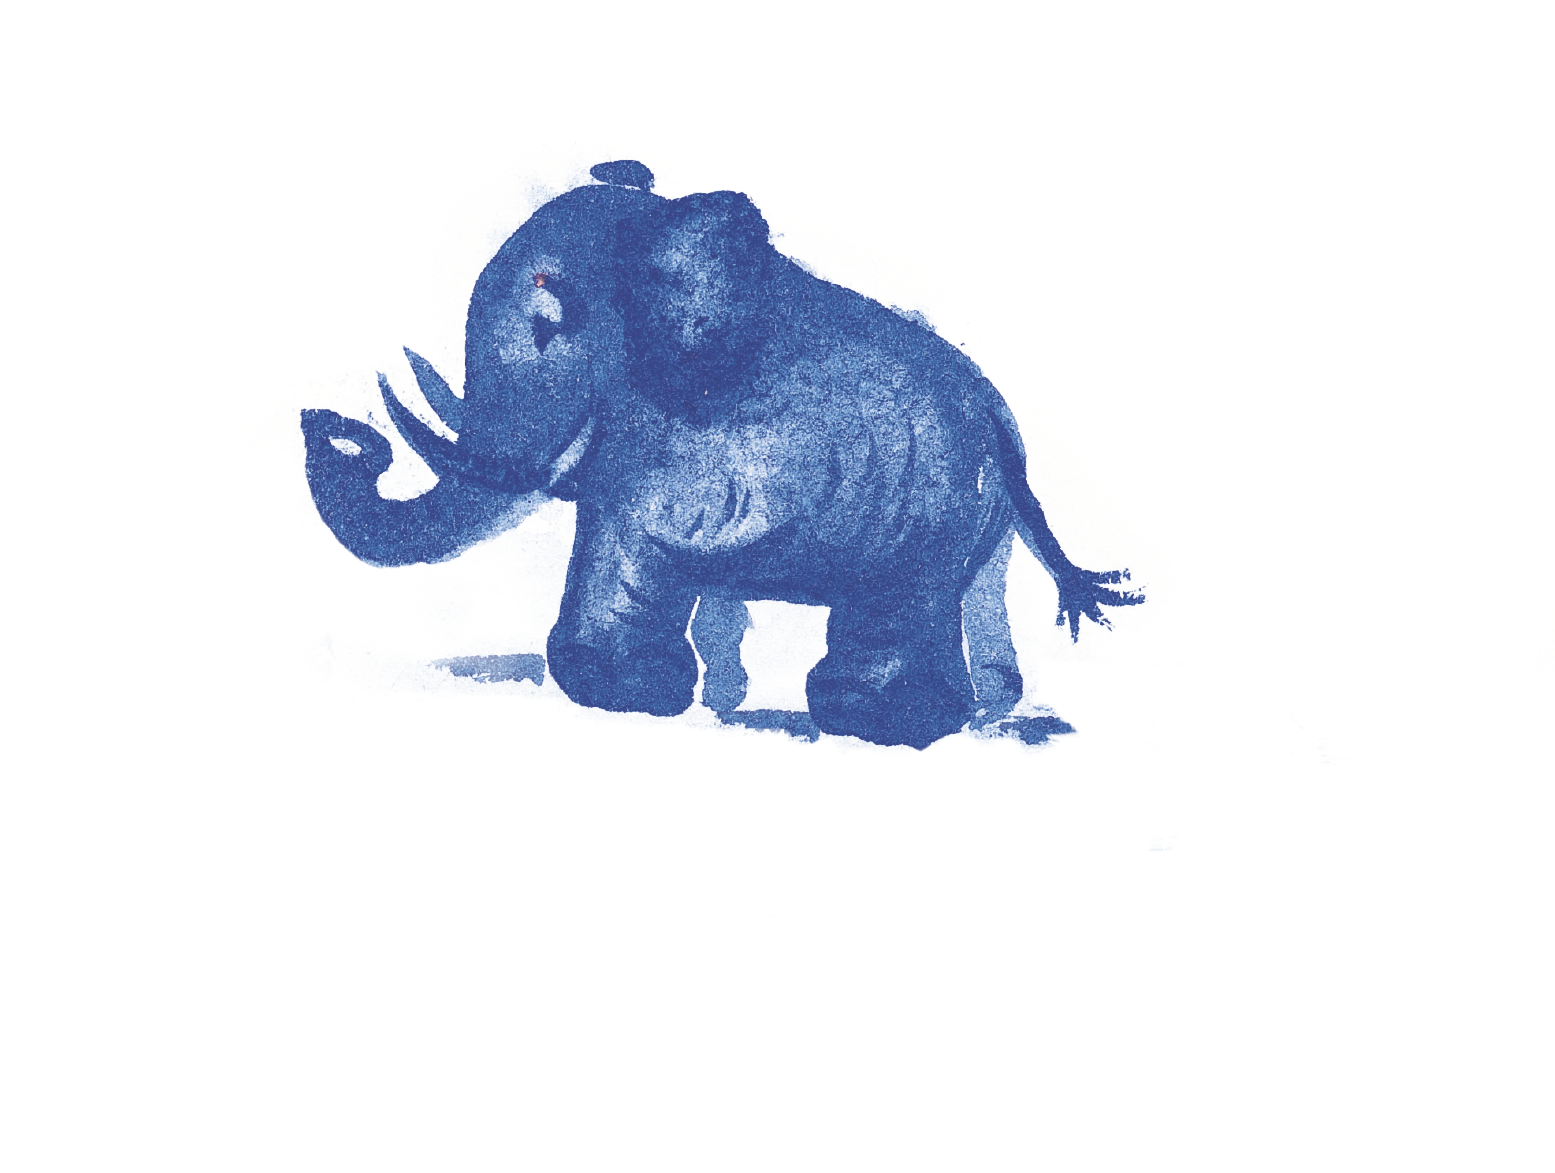
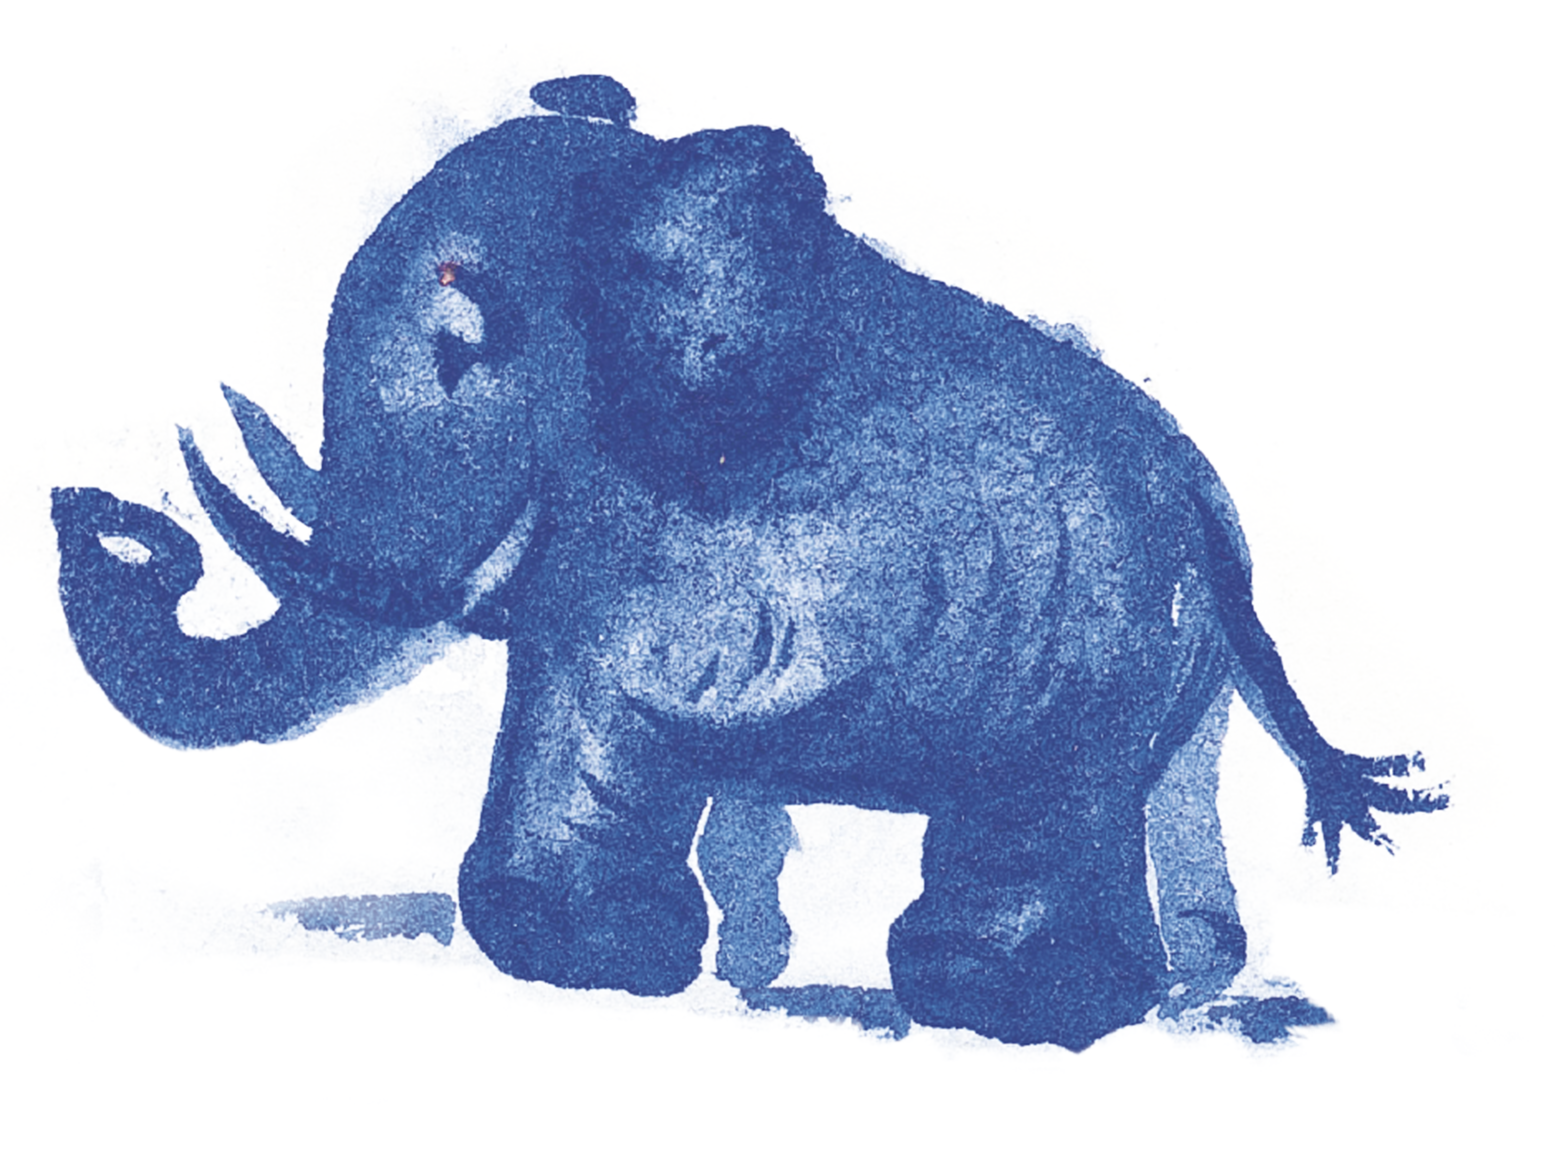
update styles/content for intro and buy

diff --git a/V2_simple/index.html b/V2_simple/index.html
@@ -7,6 +7,7 @@
     <meta http-equiv="X-UA-Compatible" content="ie=edge">
     <title>Blubo - Der kleine blaue Elefant</title>
     <link rel="stylesheet" href="./style.css">
+    <link href="https://fonts.googleapis.com/css?family=Montserrat" rel="stylesheet">
 </head>
 
 <body class="body">
@@ -16,8 +17,15 @@
         <a class="navigation__item js__navigation__item" href="#buy">Bestellen</a>
     </nav>
     <section id="intro" class="section section--intro">
-        <img class="intro__title" src="./static/title.png" alt="blubo der kleine blaue Elefant" />
+        <h1 class="intro__title">
+            <img class="intro__title__image" src="./static/title.png" alt="Blubo der kleine blaue Elefant" />
+        </h1>
         <img class="intro__blubo" src="./static/blubo.png" alt="blubo" />
+        <div class="intro__ctas">
+            <a class="link js__navigation__item" href="#book">Blick ins Buch</a>
+            &nbsp;|&nbsp;
+            <a class="link js__navigation__item" href="#buy">Bestellen</a>
+        </div>
     </section>
 
     <section id="book" class="section">
@@ -25,8 +33,43 @@
     </section>
 
     <section id="buy" class="section">
-        Buy the Book!
+        <div class="buy__title">
+            <h2 class="h2">Jetzt bestellen</h2>
+            <span class="buy__title__price">Nur 15€</span>
+            <span class="buy__title__shipping">(zzgl. Versand)</span>
+        </div>
+
+        <form id="contact">
+            <label class="buy__contact__row">
+                <span class="buy__contact__label">Vorname</span>
+                <input class="buy__contact__input" type="text" />
+            </label>
+            <label class="buy__contact__row">
+                <span class="buy__contact__label">Nachname</span>
+                <input class="buy__contact__input" type="text" />
+            </label>
+            <label class="buy__contact__row">
+                <span class="buy__contact__label">Straße, Hausnr.</span>
+                <input class="buy__contact__input" type="text" />
+            </label>
+            <label class="buy__contact__row">
+                <span class="buy__contact__label">PLZ, Ort</span>
+                <input class="buy__contact__input" type="text" />
+            </label>
+            <label class="buy__contact__row buy__contact__row--textarea">
+                <span class="buy__contact__label">Anmerkungen</span>
+                <textarea class="buy__contact__input" rows="5"></textarea>
+            </label>
+        </form>
     </section>
+
+    <footer class="footer">
+        <span class="copy">&copy; 2019 Brigitte Friebel</span>
+        <div class="footer__links">
+            <a class="link footer__link" href="./imprint.html">Imprint</a>
+            <a class="link footer__link" href="./contact.html">Contact</a>
+        </div>
+    </footer>
 
     <script src="./dist/main.js"></script>
 </body>

diff --git a/V2_simple/style.scss b/V2_simple/style.scss
@@ -1,6 +1,8 @@
 // ============= VARS ==========
 $base: 4px;
+$font-size: 20px;
 $section-padding: $base * 20;
+$blue: #0066cc;
 
 // ============= RESETS ==========
 *,
@@ -8,6 +10,7 @@ $section-padding: $base * 20;
 *::after {
     padding: 0;
     margin: 0;
+    box-sizing: border-box;
 }
 
 html,
@@ -18,8 +21,12 @@ body {
 
 // ============= BASE ==========
 .body {
+    position: relative;
     background: url('./static/background.jpg');
     background-size: 100%;
+    font-family: 'Montserrat', sans-serif;
+    font-size: $font-size;
+    color: $blue;
 }
 
 .navigation {
@@ -28,29 +35,115 @@ body {
     left: $section-padding;
 }
 
-.navigation__item {
-    display: block;
-}
-
 .section {
     min-height: 100vh;
-    padding: $section-padding $section-padding $section-padding $section-padding*2;
+    margin-left: 220px;
+    padding: $section-padding $section-padding $section-padding/2;
 }
 
+.link {
+    text-decoration: none;
+
+    &,
+    &:active,
+    &:visited {
+        color: $blue;
+    }
+
+    &:hover {
+        color: darken($blue, 20%);
+    }
+}
+
+.navigation__item {
+    display: block;
+    text-decoration: none;
+    opacity: .5;
+    transition: opacity 300ms ease-in;
+
+    &+& {
+        margin-top: $base * 2;
+    }
+
+    &,
+    &:hover,
+    &:active,
+    &:visited {
+        color: $blue;
+    }
+
+    &:hover,
+    &:active {
+        opacity: 1;
+    }
+}
 
 // ============= INTRO ==========
 .section--intro {
     display: flex;
     flex-direction: column;
     align-items: center;
+    justify-content: space-between;
 }
 
 .intro__title {
+    width: 33%;
+    max-width: 500px;
+}
+
+.intro__title__image {
     width: 100%;
-    max-width: 300px;
 }
 
 .intro__blubo {
-    width: 100%;
-    max-width: 300px;
+    width: 33%;
+    max-width: 500px;
+}
+
+
+// ============= BUY ==========
+.buy__contact__row {
+    display: block;
+    text-align: right;
+
+    &+& {
+        margin-top: $base * 4;
+    }
+}
+
+.buy__contact__row--textarea {
+    display: flex;
+    justify-content: flex-end;
+}
+
+.buy__contact__label {
+    cursor: pointer;
+    margin-right: $base * 2;
+}
+
+.buy__contact__input {
+    width: 66%;
+    padding: $base*2 $base*4;
+    outline: none;
+    box-shadow: none;
+    border: 1px solid $blue;
+    background: none;
+    font-size: 16px;
+    color: $blue;
+}
+
+
+// ============= FOOTER ==========
+.footer {
+    position: absolute;
+    display: flex;
+    justify-content: space-between;
+    right: 0;
+    bottom: 0;
+    left: 0;
+    padding: $section-padding/4 $section-padding;
+
+    .footer__link+.footer__link {
+        margin-left: $base * 2;
+    }
 }

diff --git a/V2_simple/style.css b/V2_simple/style.css
@@ -2,37 +2,98 @@
 *::before,
 *::after {
   padding: 0;
-  margin: 0; }
+  margin: 0;
+  box-sizing: border-box; }
 
 html,
 body {
   min-height: 100vh; }
 
 .body {
+  position: relative;
   background: url("./static/background.jpg");
-  background-size: 100%; }
+  background-size: 100%;
+  font-family: 'Montserrat', sans-serif;
+  font-size: 20px;
+  color: #0066cc; }
 
 .navigation {
   position: fixed;
   top: 80px;
   left: 80px; }
 
-.navigation__item {
-  display: block; }
-
 .section {
   min-height: 100vh;
-  padding: 80px 80px 80px 160px; }
+  margin-left: 220px;
+  padding: 80px 80px 40px; }
+
+.link {
+  text-decoration: none; }
+  .link, .link:active, .link:visited {
+    color: #0066cc; }
+  .link:hover {
+    color: #003366; }
+
+.navigation__item {
+  display: block;
+  text-decoration: none;
+  opacity: .5;
+  transition: opacity 300ms ease-in; }
+  .navigation__item + .navigation__item {
+    margin-top: 8px; }
+  .navigation__item, .navigation__item:hover, .navigation__item:active, .navigation__item:visited {
+    color: #0066cc; }
+  .navigation__item:hover, .navigation__item:active {
+    opacity: 1; }
 
 .section--intro {
   display: flex;
   flex-direction: column;
-  align-items: center; }
+  align-items: center;
+  justify-content: space-between; }
 
 .intro__title {
-  width: 100%;
-  max-width: 300px; }
+  width: 33%;
+  max-width: 500px; }
+
+.intro__title__image {
+  width: 100%; }
 
 .intro__blubo {
-  width: 100%;
-  max-width: 300px; }
+  width: 33%;
+  max-width: 500px; }
+
+.buy__contact__row {
+  display: block;
+  text-align: right; }
+  .buy__contact__row + .buy__contact__row {
+    margin-top: 16px; }
+
+.buy__contact__row--textarea {
+  display: flex;
+  justify-content: flex-end; }
+
+.buy__contact__label {
+  cursor: pointer;
+  margin-right: 8px; }
+
+.buy__contact__input {
+  width: 66%;
+  padding: 8px 16px;
+  outline: none;
+  box-shadow: none;
+  border: 1px solid #0066cc;
+  background: none;
+  font-size: 16px;
+  color: #0066cc; }
+
+.footer {
+  position: absolute;
+  display: flex;
+  justify-content: space-between;
+  right: 0;
+  bottom: 0;
+  left: 0;
+  padding: 20px 80px; }
+  .footer .footer__link + .footer__link {
+    margin-left: 8px; }
